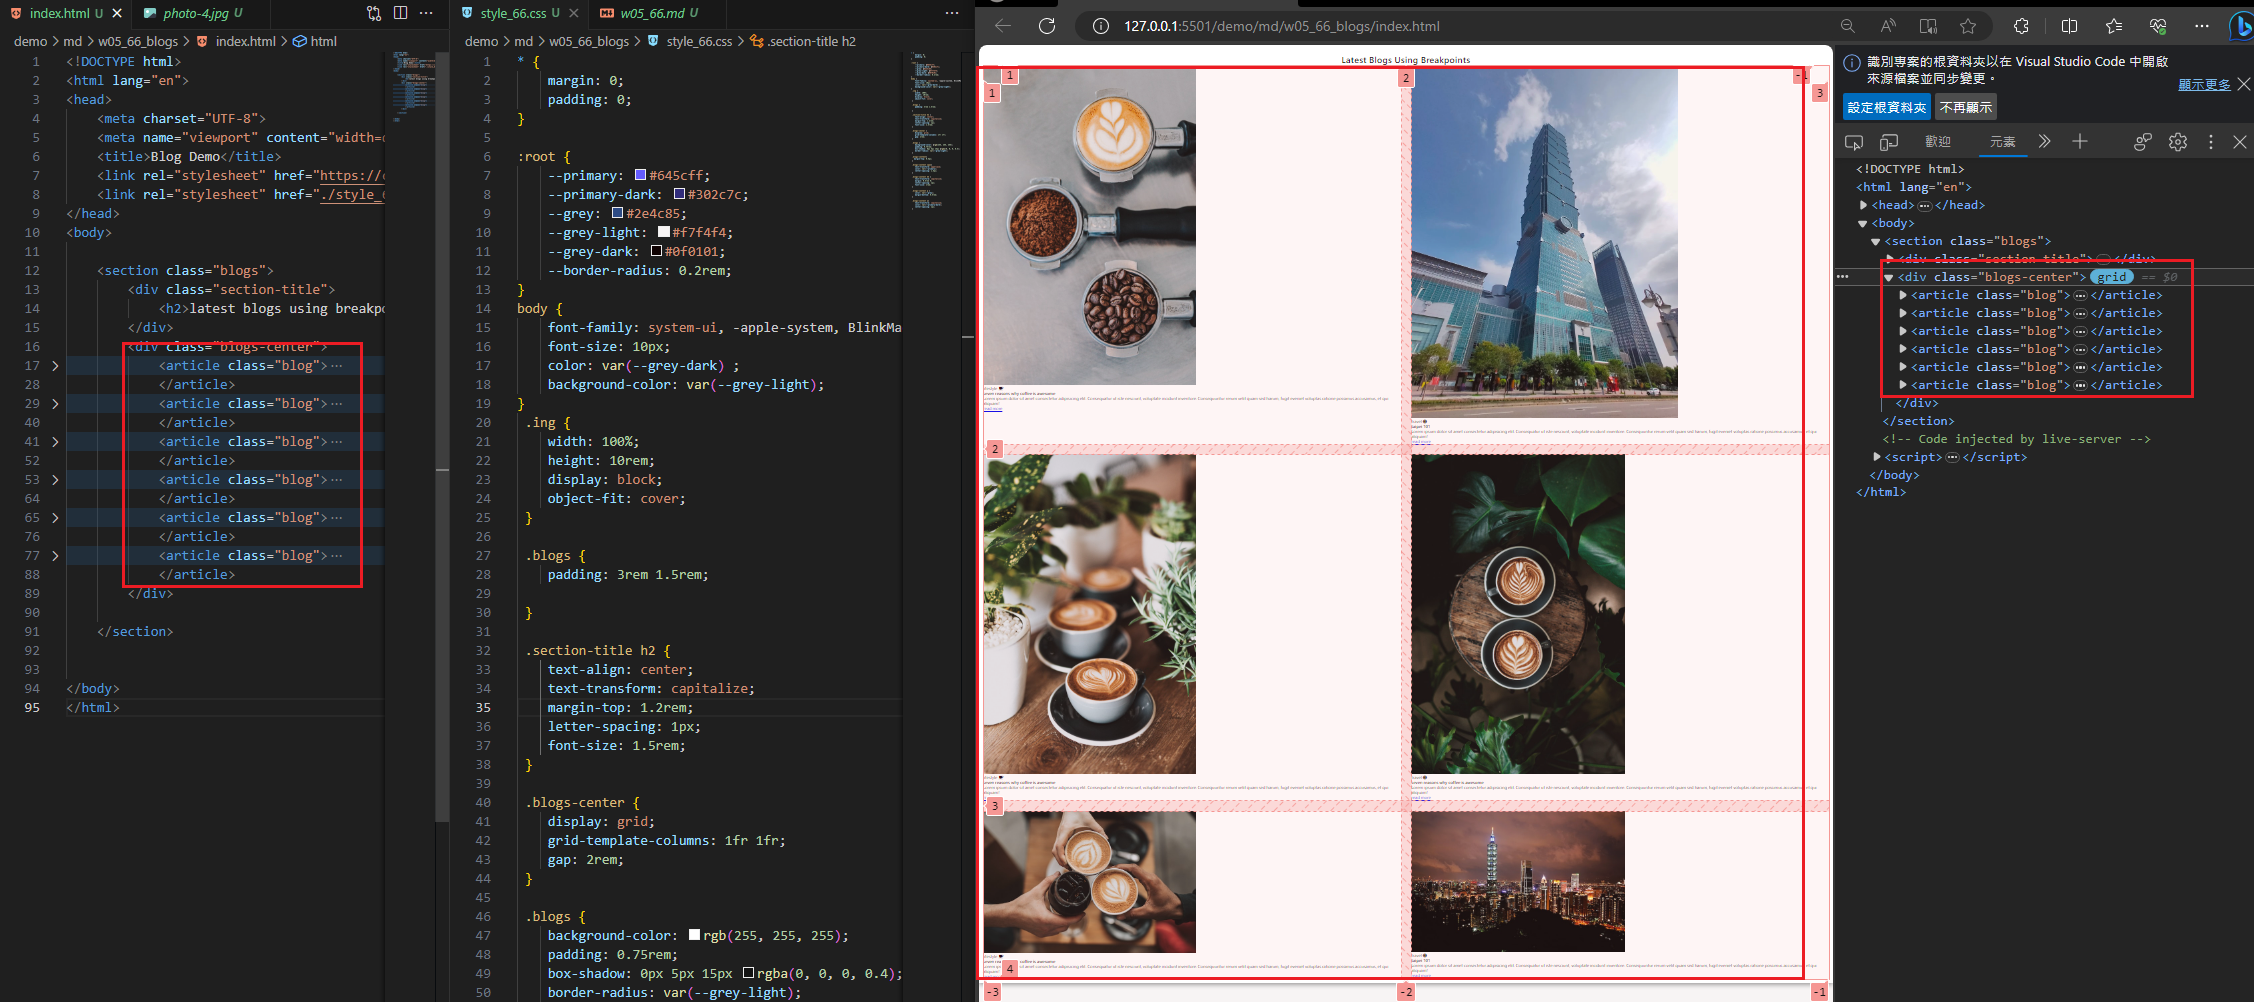
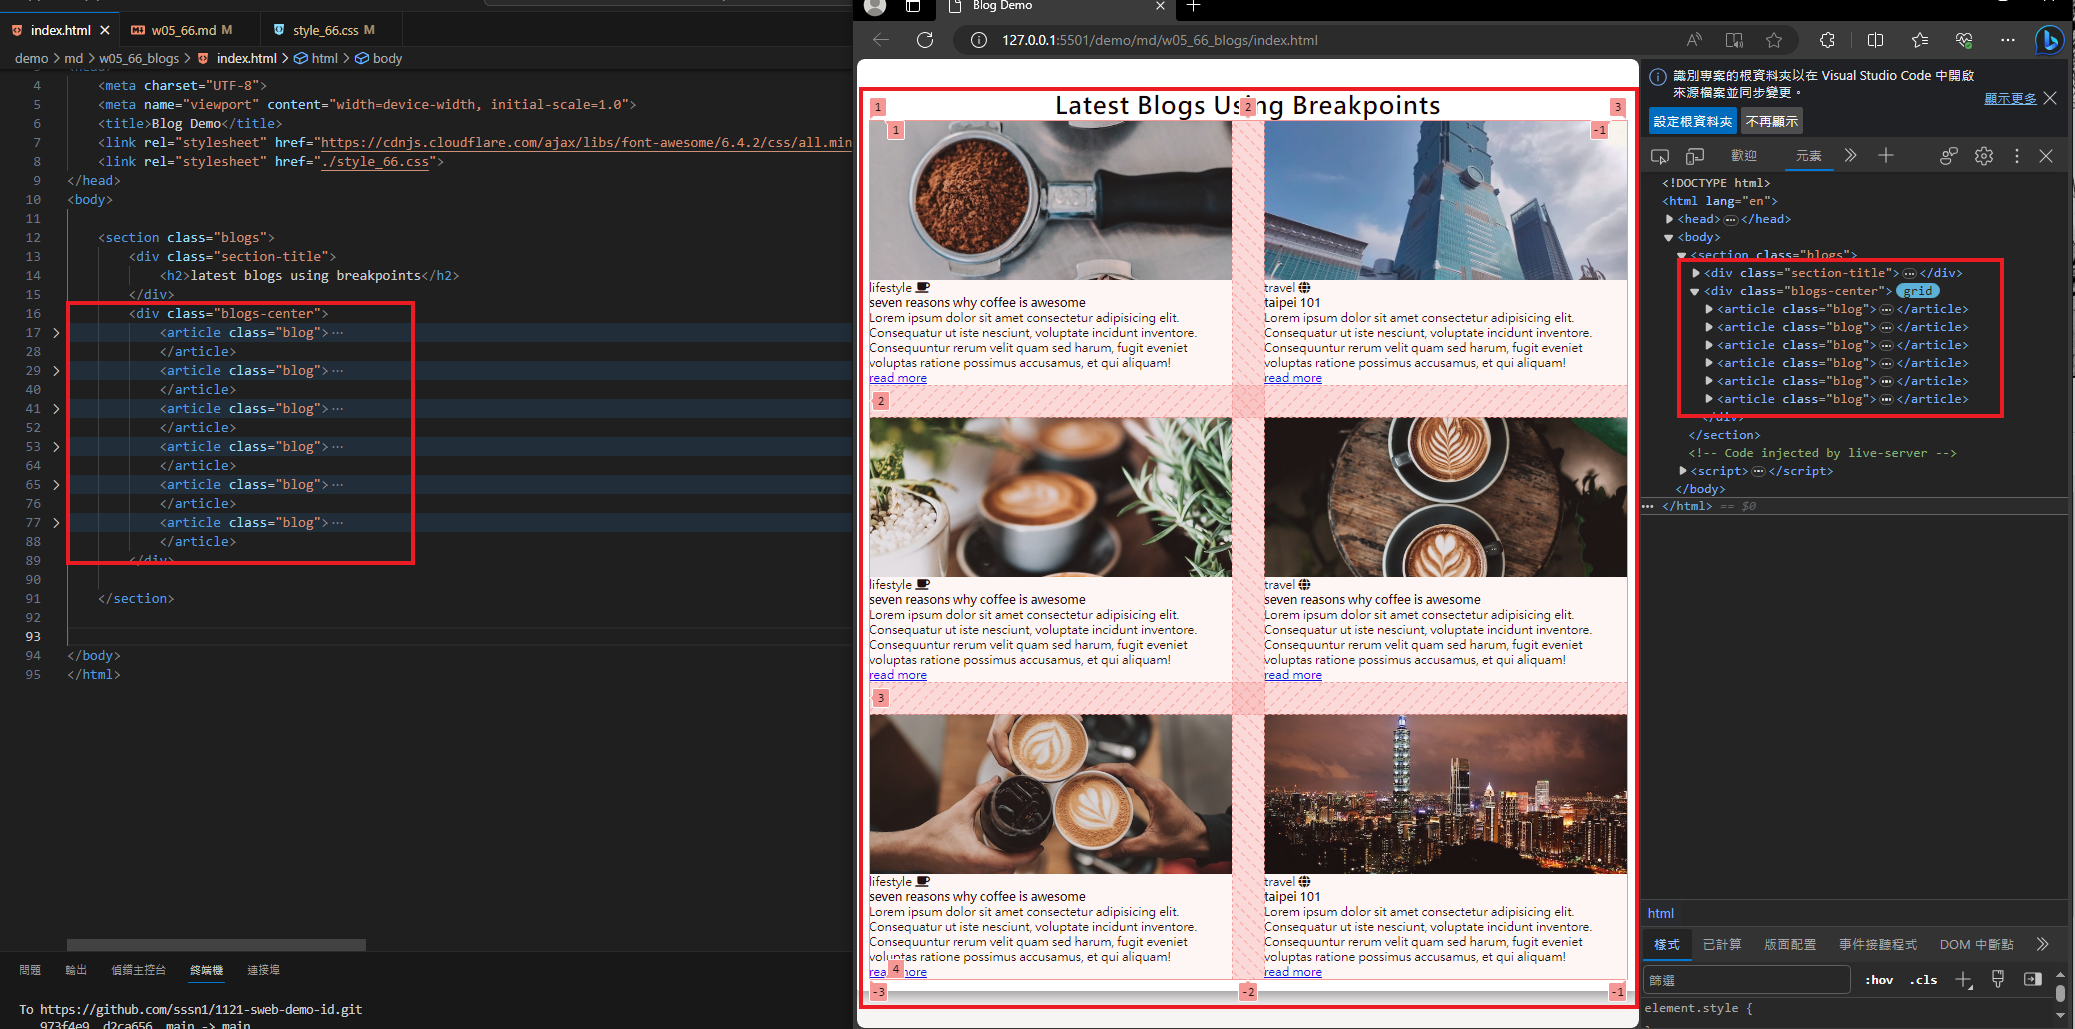
w05-p2:Use RWD breakpoints to show blogs

diff --git a/demo/md/w05_66_blogs/style_66.css b/demo/md/w05_66_blogs/style_66.css
@@ -17,7 +17,7 @@ body {
     color: var(--grey-dark) ;
     background-color: var(--grey-light);
 }
- .ing {
+ .img {
     width: 100%;
     height: 10rem;
     display: block;
@@ -39,7 +39,7 @@ body {
 
  .blogs-center {
     display: grid;
-    grid-template-columns: 1fr 1fr;
+    grid-template-columns: 1fr;
     gap: 2rem;
  }
 
@@ -47,7 +47,7 @@ body {
     background-color: rgb(255, 255, 255);
     padding: 0.75rem;
     box-shadow: 0px 5px 15px rgba(0, 0, 0, 0.4);
-    border-radius: var(--grey-light);
+    border-radius: var(--border-radius);
  }
 
  .blogs-content{
@@ -76,4 +76,37 @@ body {
     text-transform: capitalize;
     color: var(--primary-dark);
     letter-spacing: 1px;
+ }
+
+ @media screen and (min-width: 550px)
+ {
+   .blogs-center{
+      grid-template-columns: repeat(2,1fr);
+   }
+ }
+ @media screen and (min-width: 800px)
+ {
+   .blogs-center{
+      grid-template-columns: repeat(3,1fr);
+   }
+ }
+  
+ @media screen and (min-width: 992px)
+ {
+   .blogs-center{
+      grid-template-columns: repeat(4,1fr);
+   }
+ }
+ 
+ @media screen and (min-width: 1200px)
+ {
+   .blogs-center{
+      grid-template-columns: repeat(5,1fr);
+   }
+ }
+ @media screen and (min-width: 1400px)
+ {
+   .blogs-center{
+      grid-template-columns: repeat(6,1fr);
+   }
  }

diff --git a/demo/md/w05_66_blogs/w05_66.md b/demo/md/w05_66_blogs/w05_66.md
@@ -1,25 +1,16 @@
 [My github Repo URL](https://github.com/sssn1/1121-sweb-demo-id.git)
 
-### w04-p1: add index.html in home directory
-![](w04-p1-1.png)
+ w05-p1:Show 6 photos in css grid
+![](w05-p1.png)
+```
+d2ca656 Sssn1   Fri Oct 13 07:14:38 2023 +0800  w05-p1:Show 6 photos in css grid
+```
 
+### w05-p2:
+![](w05-p2.png)
 
-### w04-p2: Use css grid for two blogs locally
-![](w04-p2.png)
-```
-8143900 Sssn1   Sun Oct 8 06:46:24 2023 +0800   w04-p2: Use css grid for two blogs locally
-```
-### w04-p3: Show W04-P2 in Vercel
-![](w04-p3-1.png)
-![](w04-p3-2.png)
-```
-e223a69 Sssn1   Sun Oct 8 07:12:50 2023 +0800   w04-p3: Show W04-P2 in Vercel
-```
-### w04-p4: W4 git logs
-![](w04-p4.png)
-```
-973f4e9 Sssn1   Sun Oct 8 07:18:31 2023 +0800   w04-p4: W4 git logs
-e223a69 Sssn1   Sun Oct 8 07:12:50 2023 +0800   w04-p3: Show W04-P2 in Vercel
-8143900 Sssn1   Sun Oct 8 06:46:24 2023 +0800   w04-p2: Use css grid for two blogs locally
-7edfae2 Sssn1   Sun Oct 8 04:44:18 2023 +0800   w04-p1: add index.html in home directory
-```
+### w05-p3: 
+![](w05-p3.png)
+
+### w05-p4:
+![](w05-p4.png)
